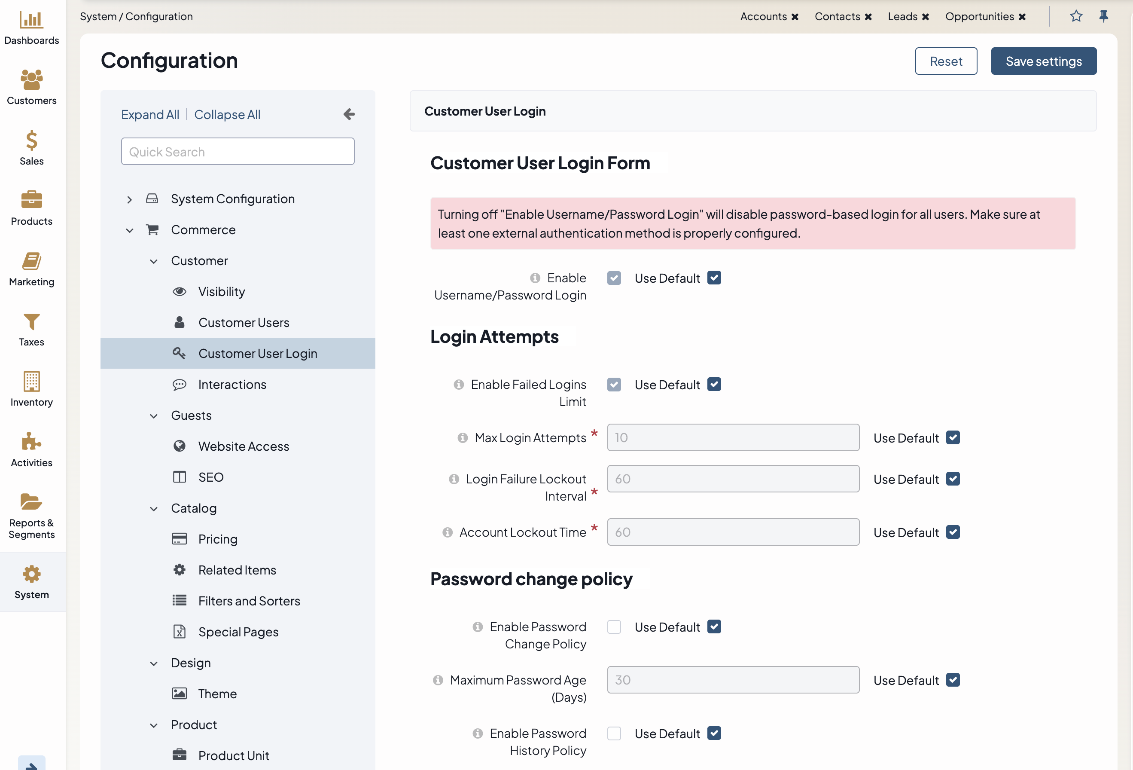
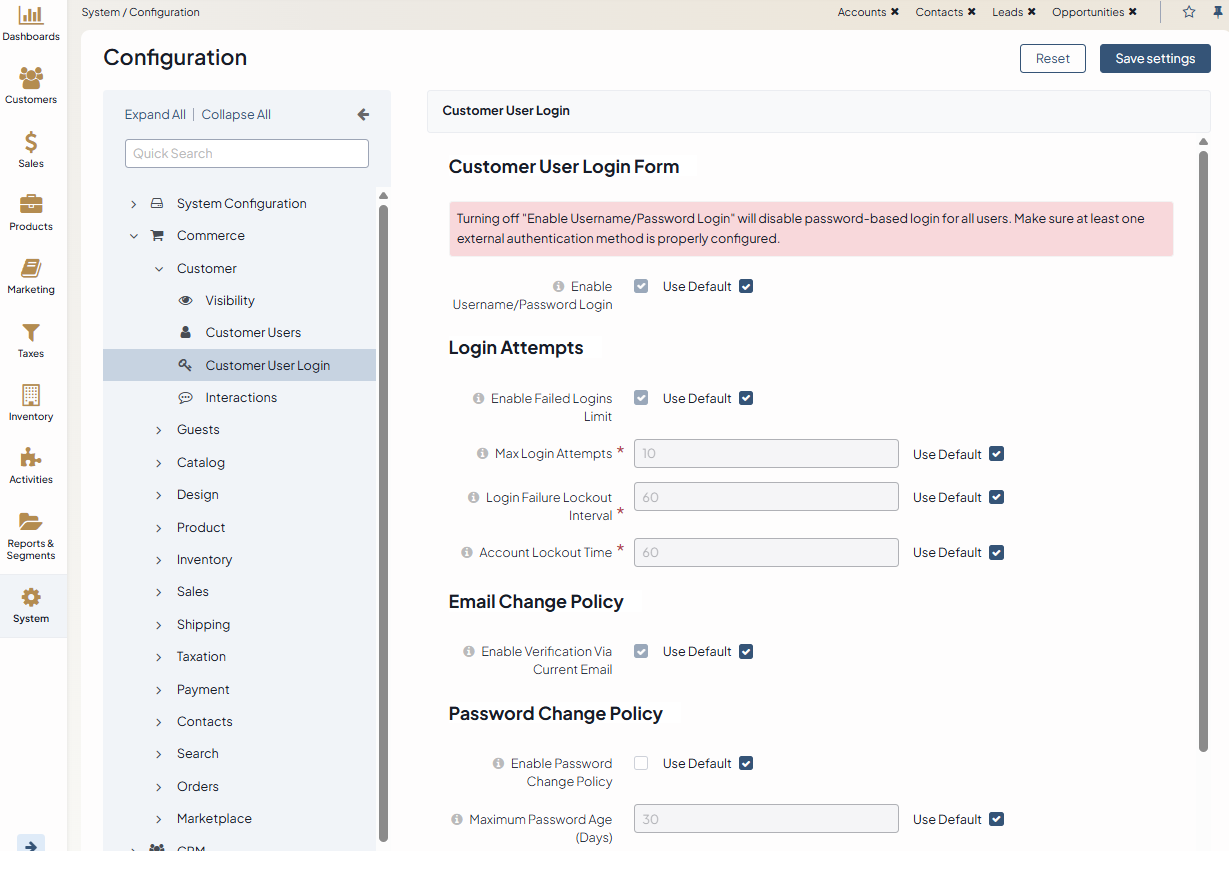
BAP-23050: Customer User Email Address Change Verification (#44727)

diff --git a/user/back-office/system/configuration/commerce/customer/customer-user-login.rst b/user/back-office/system/configuration/commerce/customer/customer-user-login.rst
@@ -20,6 +20,35 @@ In the Customer User Login Form section, configure the ability for a customer us
 
 .. important:: Before disabling this option, make sure that at least one external authentication method (such as Single Sign-On) is properly set up.
 
+Configure Login Attempts
+------------------------
+
+In the **Login Attempts** section, configure the following options:
+
+   * **Enable Failed Logins Limit** --- Defines whether a user can be locked out when the max number of login attempts is reached. By default, the option is enabled.
+   * **Max Login Attempts** --- The number of attempts within the login failure lockout interval that a user has to authenticate before they are locked out. By default, the number is set to 10.
+   * **Login Failure Lockout Interval** --- The time in minutes in which failed login attempts are counted. If one failed login attempt is followed by the second failed attempt within this lockout interval, the failed login count starts. The user will be locked out if they reach the maximum number of failed login attempts. Set zero (0) to count failed login attempts globally. By default, it is set to 60 minutes.
+   * **Account Lockout Time** --- The time in minutes that indicates how long the user has before they are locked out of the system if they reach the maximum number of failed login attempts. Set zero (0) to disable automatic unlock. By default, it is set to 60 minutes.
+
+Configure Email Change Policy
+-----------------------------
+
+In the **Email Change Policy** section, configure the following option:
+
+   * **Enable Verification via Current Email** --- When enabled, any request to change an email address of a customer user must be authorized via a confirmation code sent to the user's existing email. When disabled, the email can be updated immediately in the **Sign In & Security** section of the My Profile menu in the storefront.
+
+   .. image:: /user/img/system/config_commerce/customer/customer_user_update_email.png
+      :alt: The flow for changing the customer user's email in the storefront
+
+   Clicking the verification link redirects the user to a confirmation page. After final approval, the email change is completed and the new address becomes active.
+
+   .. image:: /user/img/system/config_commerce/customer/customer_user_update_email2.png
+      :alt: Part 2 of the changing email flow in the storefront
+
+.. note:: If the :ref:`Email Confirmation Required <sys-config--configuration--commerce--customers--customer-users>` option is enabled, an additional security step is added. A verification link is sent to the customer user's new email address. After approval from the new address, the email change is completed and the new address becomes active.
+
+        .. image:: /user/img/system/config_commerce/customer/customer_user_update_email_confirm.png
+
 .. _user-guide--customers--customer-user-password-change-policy:
 .. _configuration--guide--commerce--configuration--customer-user-password-change-policy:
 
@@ -36,12 +65,3 @@ In the **Password Change Policy** section, configure the following options:
 
     * **Enforce Password History Policy** --- By default, the system collects the last 12 previously used passwords, but you can change this number by toggling this option.
 
-Configure Login Attempts
-------------------------
-
-In the **Login Attempts** section, configure the following options:
-
-   * **Enable Failed Logins Limit** --- Defines whether a user can be locked out when the max number of login attempts is reached. By default, the option is enabled.
-   * **Max Login Attempts** --- The number of attempts within the login failure lockout interval that a user has to authenticate before they are locked out. By default, the number is set to 10.
-   * **Login Failure Lockout Interval** --- The time in minutes in which failed login attempts are counted. If one failed login attempt is followed by the second failed attempt within this lockout interval, the failed login count starts. The user will be locked out if they reach the maximum number of failed login attempts. Set zero (0) to count failed login attempts globally. By default, it is set to 60 minutes.
-   * **Account Lockout Time** --- The time in minutes that indicates how long the user has before they are locked out of the system if they reach the maximum number of failed login attempts. Set zero (0) to disable automatic unlock. By default, it is set to 60 minutes.

diff --git a/user/back-office/system/configuration/commerce/customer/global-customer-users.rst b/user/back-office/system/configuration/commerce/customer/global-customer-users.rst
@@ -24,7 +24,7 @@ To change the default customer user configuration settings globally:
 
    * **Default Customer Owner** --- Service information that determines which user has full access to managing and viewing customer information. Usually, this is the default customer administrator or the administrator assigned to the customer. Applies to the customers created in the back-office as well as to those who register on the OroCommerce website.
    * **Registration Allowed** --- Enables/disables registration of new customers from the storefront login screen.
-   * **Confirmation Required** --- Enables/disables the email confirmation step following user registration.
+   * **Email Confirmation Required** --- Enables/disables the email confirmation step following user registration.
    * **Show Registration Link** --- Shows/hides the registration link from the storefront login screen. The link is next to the Sign In link in the top bar.
    * **Auto Login** ---Enables/disables customer users to login after registration or email confirmation. Disabled by default.
    * **Required Company Name** --- Shows/hides the company name field in the registration form in the storefront. Required for individual customers who do not belong to any company.

diff --git a/user/back-office/system/configuration/commerce/index.rst b/user/back-office/system/configuration/commerce/index.rst
@@ -12,6 +12,7 @@ Learn how to set up product and category visibility restrictions, customer user 
 
 * :ref:`Visibility <user-guide--customers--configuration--visibility>`
 * :ref:`Customer Users <sys-config--configuration--commerce--customers--customer-users>`
+* :ref:`Customer User Login <sys-config--configuration--commerce--customers--customer-user-login>`
 * :ref:`Interactions <configuration--guide--commerce--configuration--interactions>`
 
 :ref:`Guests <configuration--guide--commerce--configuration--guests>`
